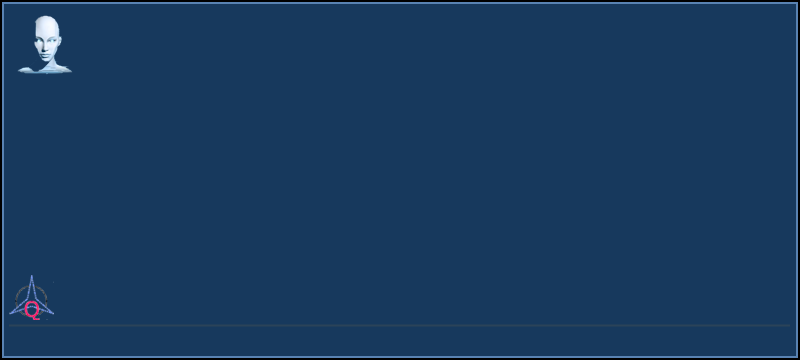
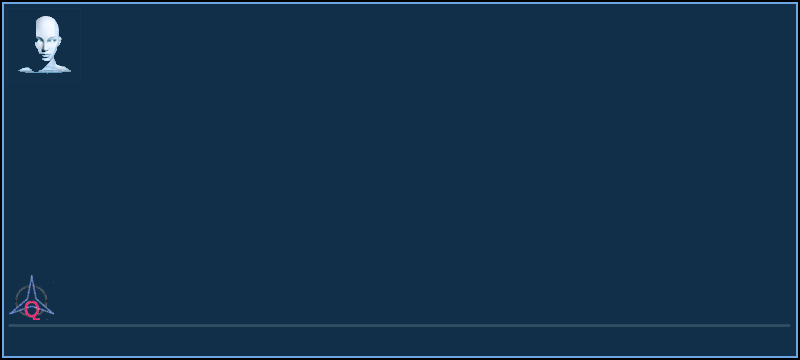
new NEW aura setup

Changed region(s): [[0.0, 0.9778, 1.0, 1.0], [0.0, 0.0, 1.0, 0.0306], [0.0, 0.1833, 0.0938, 0.2139]]

diff --git a/Quesadilla/Properties/Resources.Designer.cs b/Quesadilla/Properties/Resources.Designer.cs
@@ -112,6 +112,16 @@ namespace Quesadilla.Properties {
         /// <summary>
         ///   Looks up a localized resource of type System.Drawing.Bitmap.
         /// </summary>
+        internal static System.Drawing.Bitmap bg_aura1 {
+            get {
+                object obj = ResourceManager.GetObject("bg_aura1", resourceCulture);
+                return ((System.Drawing.Bitmap)(obj));
+            }
+        }
+        
+        /// <summary>
+        ///   Looks up a localized resource of type System.Drawing.Bitmap.
+        /// </summary>
         internal static System.Drawing.Bitmap bg_DefaultAlert {
             get {
                 object obj = ResourceManager.GetObject("bg_DefaultAlert", resourceCulture);

diff --git a/Quesadilla/Classes/Configuration/CustomPropertyExtractorWrapper.cs b/Quesadilla/Classes/Configuration/CustomPropertyExtractorWrapper.cs
@@ -27,7 +27,7 @@ public class CustomPropertyExtractorWrapper : CustomTypeDescriptor
 			o.PropertyType == typeof(PopupLocationType) ||
 			o.PropertyType == typeof(MapType) ||
             o.PropertyType == typeof(ConfigurationItemLocationInformation) ||
-            o.PropertyType == typeof(List<ConfigurationItemLocationInformation>) ||
+			o.PropertyType == typeof(List<ConfigurationItemLocationInformation>) ||
 			o.Category == "HeartBeat"
             )
             .ToArray();
